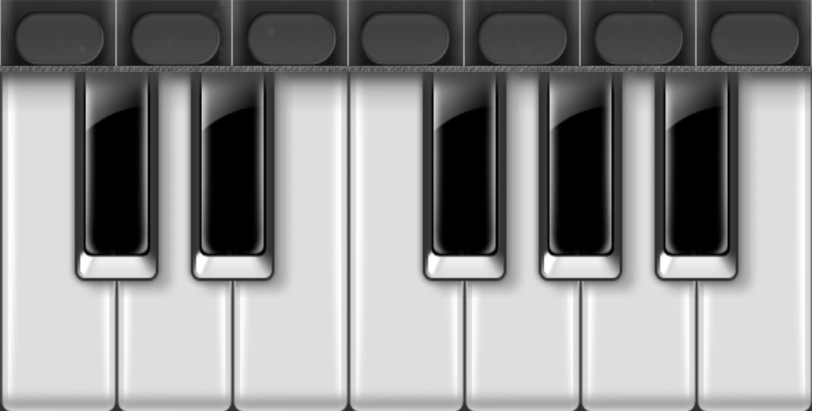
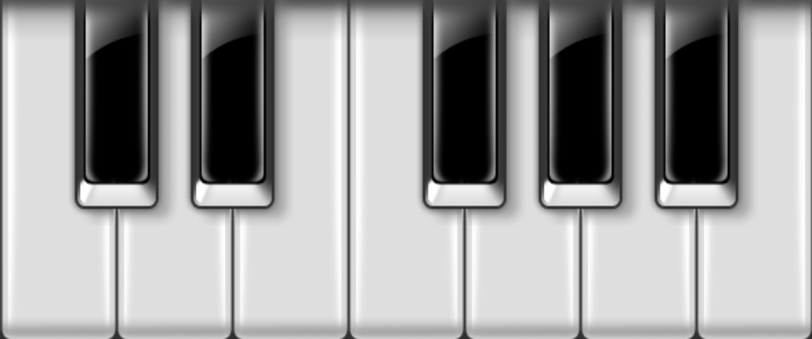
asdfasd

Changed region(s): [[0.0, 0.0, 1.0, 1.0], [0.0616, 0.5015, 0.3695, 0.708], [0.3079, 0.4425, 0.3387, 0.472]]

diff --git a/Structure/View/KeyView.py b/Structure/View/KeyView.py
@@ -1,6 +1,7 @@
 from .View import *
 from ..Model.Dot import Dot
 
+import random
 
 threshold = 0.3
 
@@ -10,9 +11,15 @@ class KeyView(View):
         self.pressTime = 0
         self.score = None
         self.prevTime = None
+        self.act = False
 
         height = self.scene.dotEndY - self.scene.dotStartY
         self.barSurface = gameapi.Surface((self.width, height), apiVar.SRCALPHA)
+
+        self.minusScoreColor = (random.randint(192,255),random.randint(64,127),random.randint(64,127),255)
+        
+        self.downColor = (random.randint(64,127),random.randint(64,127),random.randint(196,255),255)
+        
         
     
     def drawBar(self):
@@ -25,14 +32,17 @@ class KeyView(View):
         if self.keyMiddle.check(self.pitch):
             self.pressTime = time
             if self.score == None:
+                self.downColor = (random.randint(64,127),random.randint(64,127),random.randint(196,255),255)
                 self.score = 0
                 
             if self.act == True:
-                self.score += 1000*(time - self.prevTime)
-                pass
+                self.score += 100*(time - self.prevTime)
             else :
-                self.score -= 500*(time - self.prevTime)
-                pass
+                self.score -= 50*(time - self.prevTime)
+        elif self.act == True:
+            if self.score == None:
+                self.score = 0
+            self.score -= 10*(time - self.prevTime)
         else:
             if self.score != None:
                 self.scene.score += int(self.score)
@@ -82,7 +92,7 @@ class KeyView(View):
     
 
     def drawScore(self):
-        self.drawChar(str(int(self.score)), (0,200), self.scene.scoreFont)
+        self.drawChar(str(int(self.score)), (0,-50), self.scene.scoreFont, (128, 50, 50))
 
     def updateDots(self):
         self.dotList = self.middle.getData(self.pitch)

diff --git a/Structure/View/WhiteKeyView.py b/Structure/View/WhiteKeyView.py
@@ -1,6 +1,7 @@
 from .KeyView import *
 
 
+
 class WhiteKeyView(KeyView):
     def onInit(self):
         self.dotImage = self.scene.whiteDot
@@ -10,12 +11,11 @@ class WhiteKeyView(KeyView):
         self.height = self.scene.whiteHeight
 
         self.upColor = (255,255,255,0)
-        self.downColor = (0,0,128,255)
         super().onInit()
 
     def onDraw(self):
-        self.drawRect(self.keyColor, (0, 0, self.width, self.height), 1)
         self.drawDots()
+        self.drawRect(self.keyColor, (0, 0, self.width, self.height))
         self.drawBar()
 
     

diff --git a/Structure/View/BlackKeyView.py b/Structure/View/BlackKeyView.py
@@ -9,12 +9,11 @@ class BlackKeyView(KeyView):
         self.height = self.scene.blackHeight
         
         self.upColor = (0,0,0,0)
-        self.downColor = (128,0,0,255)
         super().onInit()
 
     def onDraw(self):
-        self.drawRect(self.keyColor, (0, 0, self.width, self.height), 1)
         self.drawDots()
+        self.drawRect(self.keyColor, (0, 0, self.width, self.height))
         self.drawBar()
 
     def getDotLeftRight(self):

diff --git a/Structure/View/GameScreenView.py b/Structure/View/GameScreenView.py
@@ -7,7 +7,7 @@ class GameScreenView(View):
     def onInit(self):
         self.bg = gameapi.Color(0,0,0)
         
-        self.childList.append(PianoView(self.scene, self, (1000, 1000), RefVector(self.scene.octWidth * 1,300)))
+        self.childList.append(PianoView(self.scene, self, (1000, 1000), RefVector(self.scene.octWidth * 1,400)))
         self.childList.append(ScoreView(self.scene, self, (1000, 1000), RefVector(0,0)))
         
         

diff --git a/Structure/Scene/GameScene.py b/Structure/Scene/GameScene.py
@@ -7,9 +7,9 @@ import os
 
 class GameScene(Scene):
     def initModel(self):
-        self.dotStartY = -300
-        self.lineY = 100
-        self.dotEndY = 300
+        self.dotStartY = -400
+        self.lineY = 0
+        self.dotEndY = 50
         self.setDotSpeed(150)
 
         self.scoreFont = gameapi.font.Font('freesansbold.ttf', 32)

diff --git a/Structure/View/View.py b/Structure/View/View.py
@@ -53,6 +53,8 @@ class View:
         cvrt = (rect[0]+self.absRefVec.lt[0], rect[1]+self.absRefVec.lt[1])
         self.scene.window.blit(surf,cvrt)
 
+    
+
     def resizeImage(self, image, wh):
         surf = gameapi.transform.smoothscale(image, (int(wh[0]),int(wh[1])))
         return surf

diff --git a/Structure/View/PianoView.py b/Structure/View/PianoView.py
@@ -21,7 +21,8 @@ class PianoView(View):
 
         
     def onDraw(self):
-        self.drawRect(self.white, (0, 50, 800, 300))
+        # self.drawRect(self.white, (0, 50, 800, 300))
+        pass
 
     def setMiddle(self, middle):
         self.middle = middle
